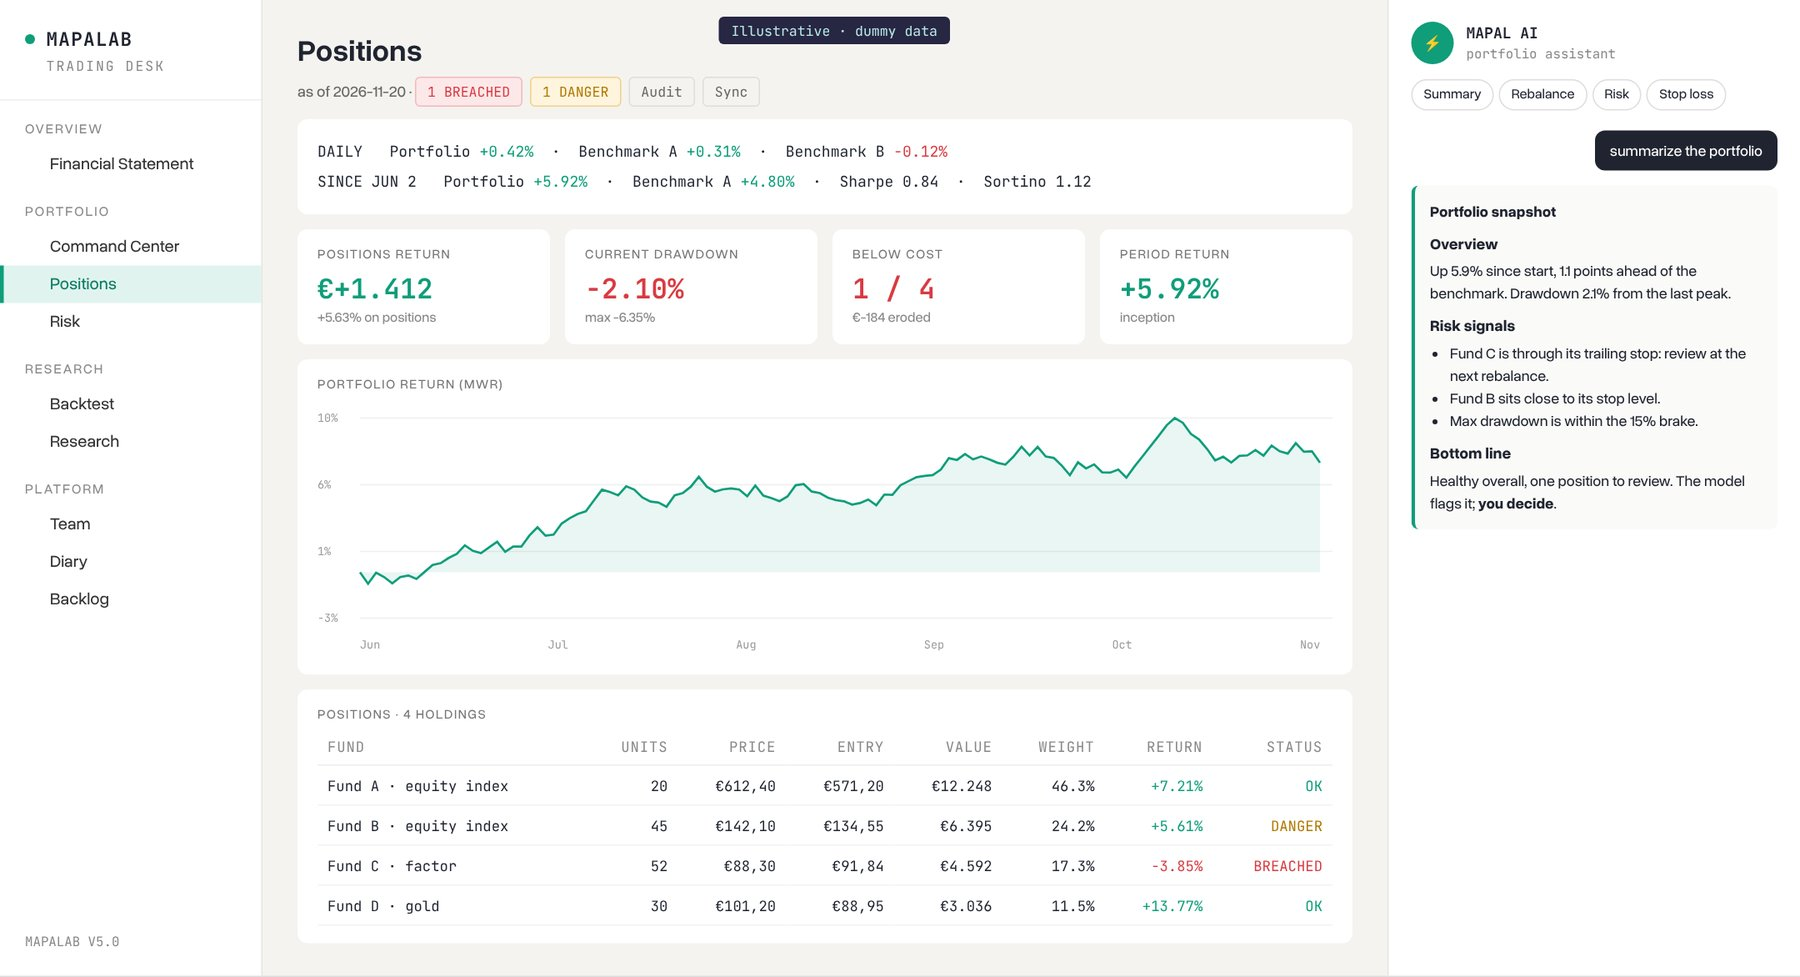
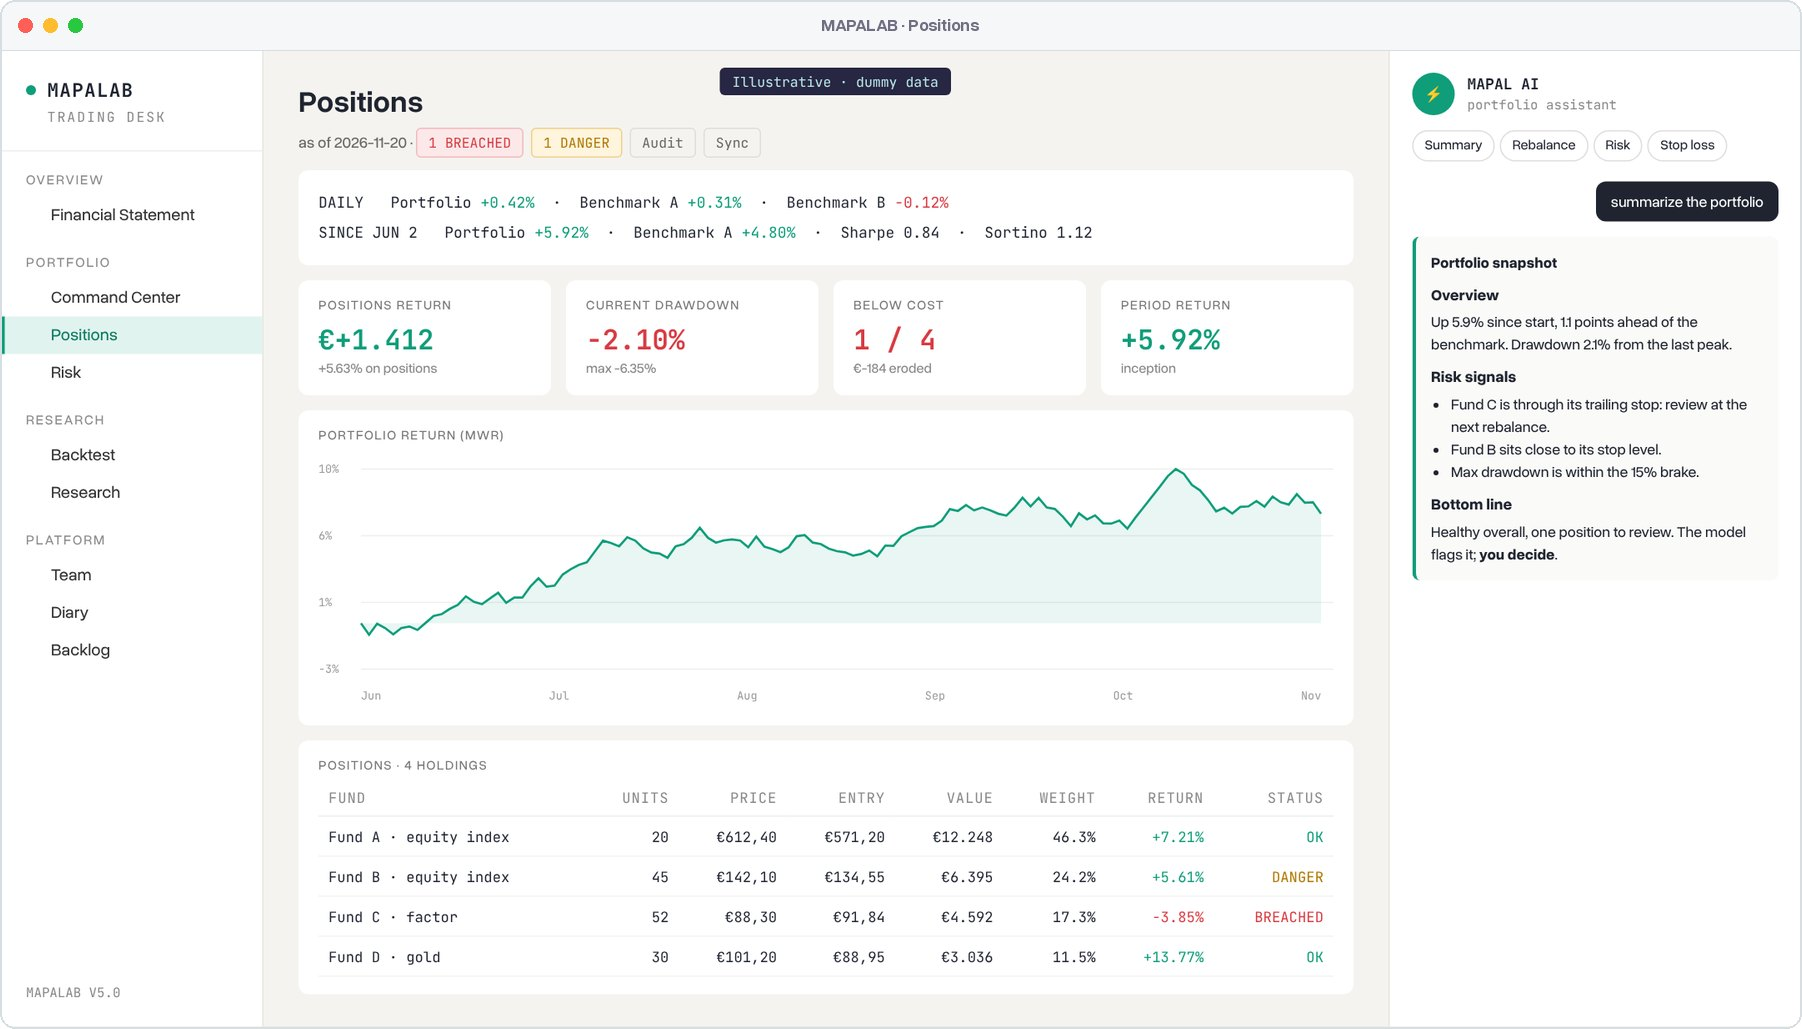
MAPALAB: add Team flow view; bake macOS window frame into screenshots
Claude-Session: https://claude.ai/code/session_0145q5vveUtfyUejPp13cBs1

diff --git a/src/content/projects.ts b/src/content/projects.ts
@@ -10,6 +10,7 @@ import satisfactionGuarantee from "../../public/projects/satisfaction-guarantee.
 import mapalab from "../../public/projects/mapalab.jpg";
 import mapalabCommand from "../../public/projects/screens/mapalab-command-center.jpg";
 import mapalabPositions from "../../public/projects/screens/mapalab-positions.jpg";
+import mapalabFlow from "../../public/projects/screens/mapalab-team-flow.jpg";
 import mapalabTeam from "../../public/projects/screens/mapalab-team.jpg";
 import growthDrivers from "../../public/projects/growth-why-revenue-moved.jpg";
 import growthMatrix from "../../public/projects/growth-where-to-look.jpg";
@@ -167,9 +168,10 @@ export const personalProjects: PersonalProject[] = [
     ],
     gallery: [
       { wide: true, src: mapalab, alt: "MAPALAB team diagram: owner, Chief of Staff, investing, money and build roles, and a Reviewer", caption: "The team: one owner, a Chief of Staff, specialist agents and a Reviewer." },
-      { wide: true, window: "MAPALAB · Team", src: mapalabTeam, alt: "MAPALAB Team board: agent roles across the top, tasks in Needs you, Working, Queued and Done columns", caption: "Team board: every agent's work in one place. Example tasks." },
-      { wide: true, window: "MAPALAB · Command Center", src: mapalabCommand, alt: "MAPALAB Command Center: return and drawdown cards, NAV, return and drawdown charts, monthly results and a daily-returns heatmap", caption: "Command Center: NAV, return and drawdown on one page. Dummy data." },
-      { wide: true, window: "MAPALAB · Positions", src: mapalabPositions, alt: "MAPALAB Positions page with stop-level warnings, a return chart, a holdings table and the AI assistant's portfolio summary", caption: "Positions, with stop-level warnings and the AI assistant's summary. Dummy data." },
+      { wide: true, src: mapalabFlow, alt: "MAPALAB Team flow view: the Chief of Staff routes work to agent roles, lines show where each role's tasks stand, and decisions flow to the owner", caption: "Team flow: who holds the work, where it stands, and what is waiting on me. Example tasks." },
+      { wide: true, src: mapalabTeam, alt: "MAPALAB Team board: agent roles across the top, tasks in Needs you, Working, Queued and Done columns", caption: "Team board: every agent's work in one place. Example tasks." },
+      { wide: true, src: mapalabCommand, alt: "MAPALAB Command Center: return and drawdown cards, NAV, return and drawdown charts, monthly results and a daily-returns heatmap", caption: "Command Center: NAV, return and drawdown on one page. Dummy data." },
+      { wide: true, src: mapalabPositions, alt: "MAPALAB Positions page with stop-level warnings, a return chart, a holdings table and the AI assistant's portfolio summary", caption: "Positions, with stop-level warnings and the AI assistant's summary. Dummy data." },
     ],
   },
 ];
